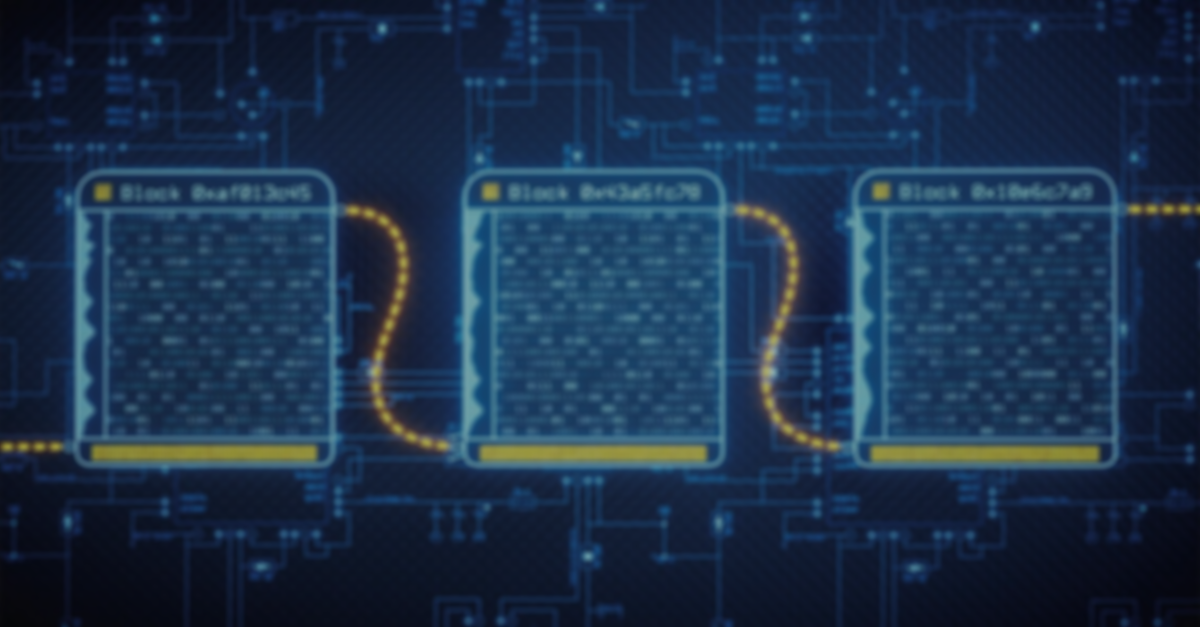
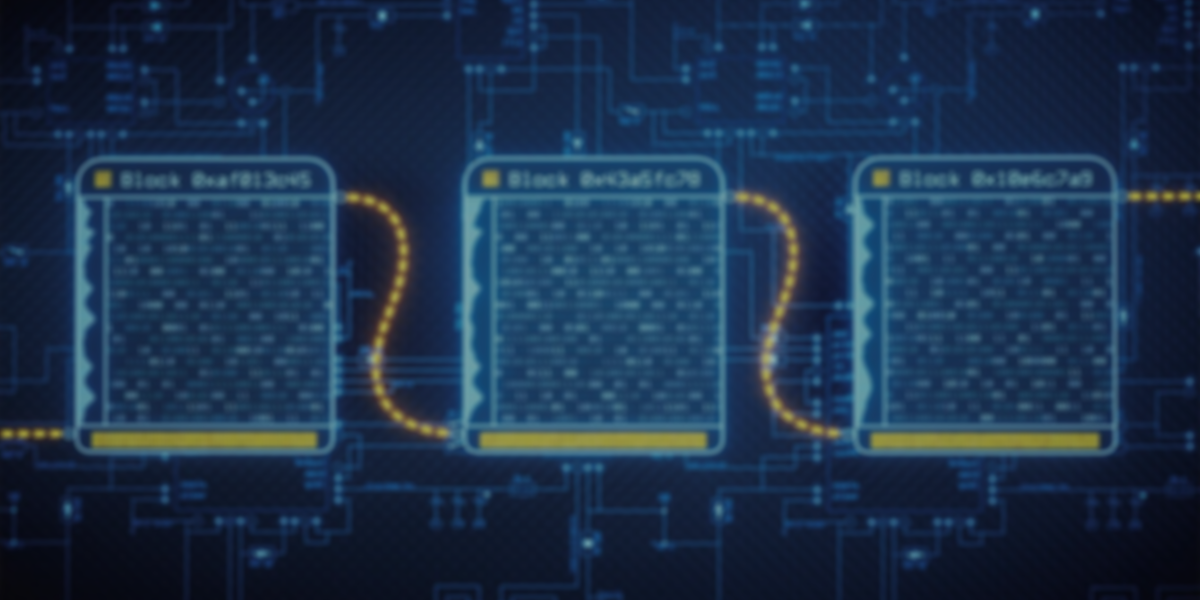
Set OrthographicProjection scaling mode to FixedVertical

diff --git a/src/main.rs b/src/main.rs
@@ -57,9 +57,8 @@ fn setup(
 
     let mut camera = OrthographicCameraBundle::new_2d();
     let projection = bevy::render::camera::OrthographicProjection {
-        // scaling_mode: ScalingMode::FixedVertical,
-        // right: 1000.,
-        // left: -1000.,
+        scaling_mode: ScalingMode::FixedVertical,
+        scale: 300.,
         ..Default::default()
     };
     camera.orthographic_projection = projection;
